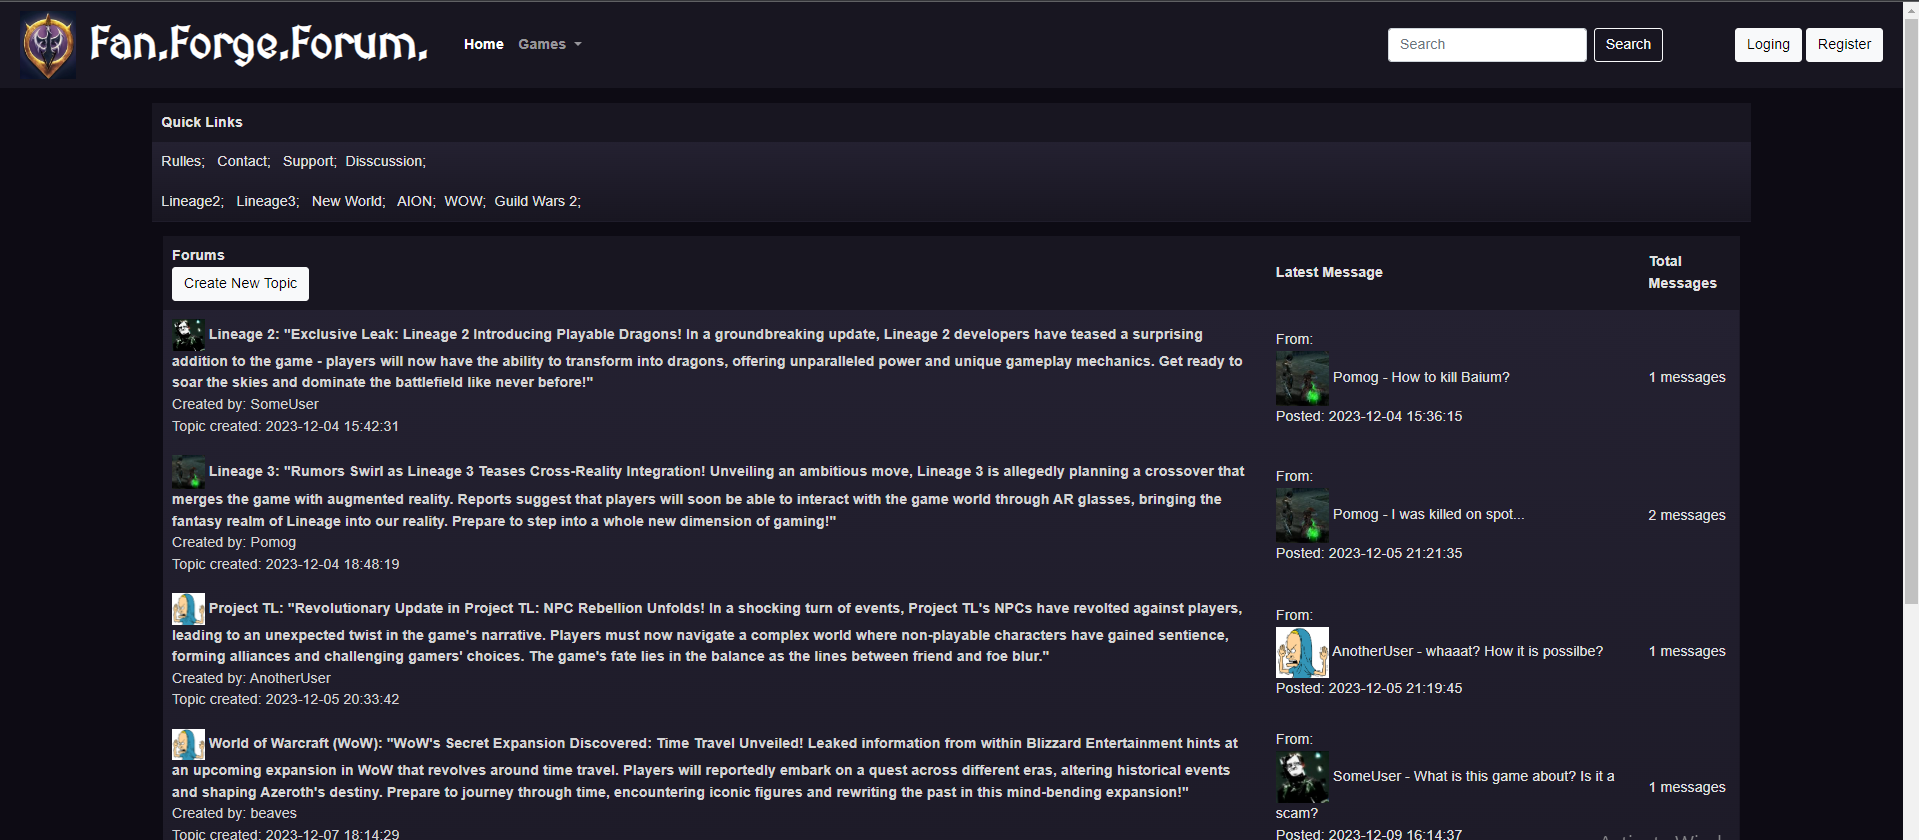
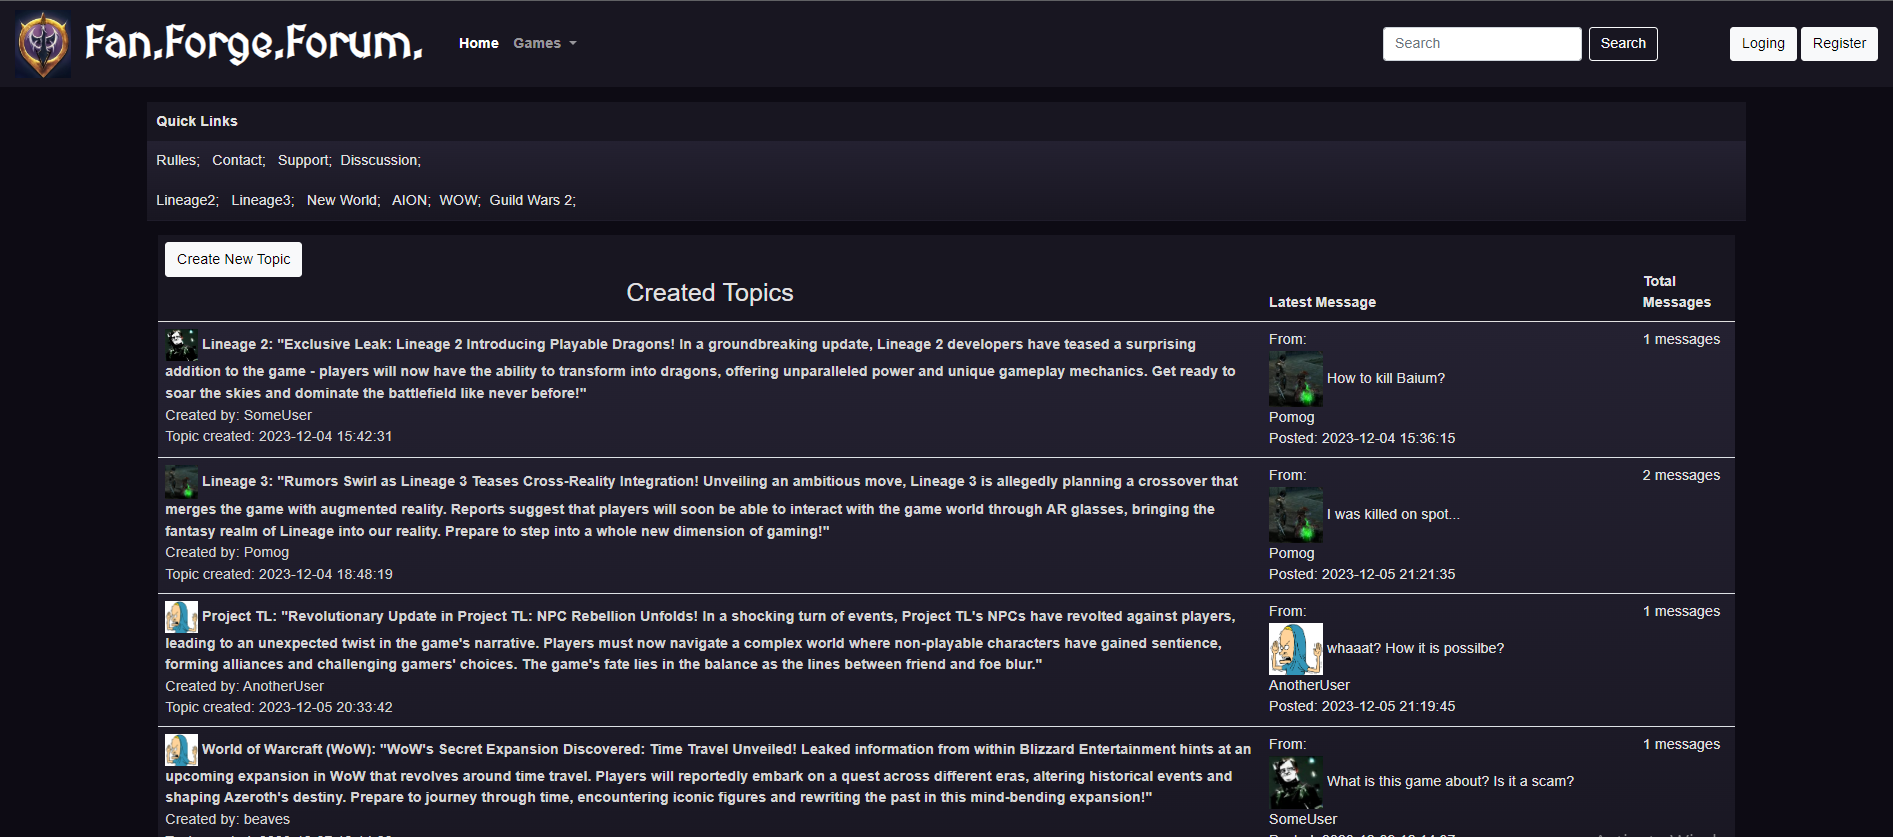
updating readme

diff --git a/template/home.page.html b/template/home.page.html
@@ -1,124 +1,55 @@
 {{template "body" .}}
+
 {{define "centralPart"}}
 <div class="container custom-container">
+    <table class="table forumTable whiteLink mt-3">
+        <thead class="containerHead">
+            <tr>
+                <!-- modal starts -->
+                <th class="forumFirstCol" scope="col">
+                    <div class="d-flex justify-content-start align-items-center">
+                        <button type="button" class="btn btn-light me-2" data-bs-toggle="modal" data-bs-target="#createNewTopicModal">Create New Topic</button>
+                    </div>
+                    <div class="d-flex justify-content-center">
+                        <h3>Created Topics</h3>
+                    </div>
+                </th>
+                <!-- modal ends -->
+                <th scope="col">Latest Message</th>
+                <th scope="col">Total Messages</th>
+            </tr>
+        </thead>
+        <tbody class="containerBody">
+            {{$threadinfo := index .Data "threads"}}
+            {{ range $threadinfo }}
+            <tr>
+                <td>
+                    <!-- 1column -->
+                    <a href="/theme">
+                        <img src="{{ .PictureUserWhoCreatedThread }}" class="logo_img" alt="/static/logo/message_icon2.png"><strong>&nbsp;{{ .Subject }} </strong>
+                        <br>Created by: {{ .UserNameWhoCreatedThread}}<br>
+                        Topic created: {{ .Created}}
+                    </a>
+                </td>
+                {{ $lastPost := findLastPost .Posts }}
+                {{ $dateLastPostCreated := convertTime $lastPost }}
+                <td><!-- 2column -->From:<br><img src="{{ .PictureUserWhoCreatedLastPost }}" class="logo_ava" alt="picture"> {{ $lastPost.Subject}} <br>{{ .UserNameWhoCreatedLastPost }}<br> Posted: {{$dateLastPostCreated}} </td>
+                {{ $numOfPosts := numberOfPosts .Posts }}
+                <td><!-- 3column -->{{ $numOfPosts}} messages</td>
+            </tr>
+            {{ end }}
 
-    <table class="table  forumTable whiteLink mt-3">
-      <thead class="containerHead">
-        <tr >
-          <!-- modal starts -->
-          <th class="forumFirstCol" scope="col">
-            <div class="d-flex justify-content-start align-items-center">
-              <button type="button" class="btn btn-light me-2" data-bs-toggle="modal" data-bs-target="#createNewTopicModal">Create New Topic</button>
-            </div>
-            <div class="d-flex justify-content-center">
-              <h3>Created Topics</h3>
-            </div>
-          </th>
-            <div class="modal fade text-bg-dark p-3" id="createNewTopicModal" tabindex="-1" aria-labelledby="createNewTopicModalLabel" aria-hidden="true">
-              <div class="modal-dialog">
-                <div class="modal-content">
-                  <div class="modal-header">
-                    <h1 class="modal-title fs-5" id="createNewTopicModalLabel">What this topic will be about?</h1>
-                    <button type="button" class="btn-close" data-bs-dismiss="modal" aria-label="Close"></button>
-                  </div>
-                  <div class="modal-body">
-                    <form method="post" action="/home">
-                      <div class="mb-3">
-                        <label for="message-text" class="col-form-label">Type your topic here:</label>
-                        <textarea class="form-control" id="message-text" name="message-text"></textarea>
-                      </div>
-                      <div class="modal-footer">
-                        <button type="button" class="btn btn-secondary" data-bs-dismiss="modal">Close</button>
-                        <button type="submit" class="btn btn-light">Publish new topic</button>
-                      </div>
-                    </form>
-                  </div>
-                </div>
-              </div>
-            </div>
-          <!-- modal ends -->
-          <th scope="col">Latest Message</th>
-          <th scope="col">Total Messages</th>
-        </tr>
-      </thead>
-      <tbody class="containerBody">
-        {{$threadinfo := index .Data "threads"}}
-        {{ range $threadinfo }}
-        <tr>
-            <td>
-              <!-- 1column -->
-                <a href="/theme">
+            <tr>
+                <td>
+                    <img src="/static/logo/message_icon2.png" class="logo_img" alt="logo"><strong> &nbsp;WoW Classic: </strong>New Lost and Found NPC in Booty Bay - WoW Classic. In the latest update to WoW Classic, Patch 1.15.0, Blizzard has added a new NPC to Booty Bay named "Rix Xizzix" who is a Lost and Found Vendor.
+                </td>
+                <td>From: SomeOneElse - Another Comment here<br> Posted: 21-2-2023</td>
+                <td>1 message</td>
+            </tr>
 
-                  <img src="{{ .PictureUserWhoCreatedThread}}" class="logo_img" alt="/static/logo/message_icon2.png"><strong>&nbsp;{{ .Subject }} </strong>
-                  <br>Created by: {{ .UserNameWhoCreatedThread}}<br>
-                  Topic created: {{ .Created}}
-                </a>
-              </td>
-              
-            {{ $lastPost := findLastPost .Posts}}
-            {{ $dateLastPostCreated := convertTime $lastPost}}
-          <td><!-- 2column -->From:<br><img src="{{ .PictureUserWhoCreatedLastPost}}" class="logo_ava" alt="picture"> {{ .UserNameWhoCreatedLastPost }} - {{ $lastPost.Subject}} <br> Posted: {{$dateLastPostCreated}} </td>
-          {{ $numOfPosts := numberOfPosts .Posts}}
-          <td><!-- 3column -->{{ $numOfPosts}} messages</td>
-        </tr>
-        {{end}}
+            <!-- Other rows with similar content -->
 
-        <tr>
-          <td> 
-
-            <img src="/static/logo/message_icon2.png" class="logo_img" alt="logo"><strong> &nbsp;WoW Classic: </strong>New Lost and Found NPC in Booty Bay - WoW Classic. In the latest update to WoW Classic, Patch 1.15.0, Blizzard has added a new NPC to Booty Bay named "Rix Xizzix" who is a Lost and Found Vendor.
-
-          </td>
-          <td>From: SomeOneElse - Another Comment here<br> Posted: 21-2-2023</td>
-          <td>1 message</td>
-        </tr>
-        <tr>
-          <td>
-
-            <img src="/static/logo/message_icon2.png" class="logo_img" alt="logo"><strong> &nbsp; Project TL: </strong>Project TL (Lineage 3 or Lineage Eternal) release date is a matter of speculation for nearly a decade. It was initially announced in 2011, but after delays and complications, the third installment in the Lineage series has not yet seen the light of day, nor do we have any vague release date set.
-
-          </td>
-          <td>From: Pomogadryg - I will play this game...<br> Posted: 10-11-2022</td>
-          <td>5 messages</td>
-        </tr>
-        <tr>
-          <td>
-
-            <img src="/static/logo/message_icon2.png" class="logo_img" alt="logo"><strong> &nbsp; Upcoming MMO: </strong>A new MMO titled "Legends of Eternia" has been teased by a renowned game studio. Little is known about the gameplay or setting, but rumors suggest it will revolutionize the genre.
-
-          </td>
-          <td>From: Adventurer88 - Excited for this one!<br> Posted: 22-12-2022</td>
-          <td>8 messages</td>
-        </tr>
-        <tr>
-          <td>
-
-            <img src="/static/logo/message_icon2.png" class="logo_img" alt="logo"><strong> &nbsp; Fantasy RPG News: </strong>An unconfirmed leak reveals details about an upcoming fantasy RPG. Speculations about its vast open world and intricate storyline have sparked interest among gaming enthusiasts.
-
-          </td>
-          <td>From: QuestMaster21 - Can't wait to explore!<br> Posted: 21-11-2023</td>
-          <td>12 messages</td>
-        </tr>
-        <tr>
-          <td>
-
-            <img src="/static/logo/message_icon2.png" class="logo_img" alt="logo"><strong> &nbsp; Sci-Fi MMO Announcement: </strong>A renowned game studio has officially announced the development of a new sci-fi MMO. The teaser trailer hints at futuristic worlds and advanced gameplay mechanics.
-
-          </td>
-          <td>From: SpaceExplorerX - Ready to embark on this journey!<br> Posted: 02-12-2023</td>
-          <td>6 messages</td>
-        </tr>
-        <tr>
-          <td>
-
-            <img src="/static/logo/message_icon2.png" class="logo_img" alt="logo"><strong> &nbsp; MMORPG Update: </strong>An existing MMORPG is set to receive a major update, promising new quests, improved graphics, and enhanced gameplay mechanics.
-
-          </td>
-          <td>From: GamerGirl123 - Exciting times ahead!<br> Posted: 10-11-2022</td>
-          <td>10 messages</td>
-        </tr>
-
-      </tbody>
+        </tbody>
     </table>
-  </div>
+</div>
 {{end}}

diff --git a/template/theme.page.html b/template/theme.page.html
@@ -90,17 +90,27 @@
  
   <table class="table-borderless forumTable whiteLink mt-3">
     <thead class="containerHead">
-      {{$postinfo := index .Data "posts"}}
-
-      <tr >
-{{/* info related to the main(mother)Thread */}}
+      <tr>
+        {{/* Info related to the main (mother) Thread */}}
         <th class="forumFirstColTheme" scope="col" colspan="2">
-        {{index .Data "mainThreadName"}} <br>
-        Created: {{index .Data "mainThreadCreatedTime"}}
+          {{$creatorImage := index .Data "creatorImg"}}
+          {{$creatorName := index .Data "creatorName"}}
+          <img src="{{$creatorImage}}" class="ava_img" alt="ava"><br>
+          <strong>&nbsp;{{$creatorName}}</strong><br>
+          Date of Registration: ...... <br>
+          Total Messages: ....
         </th>
+  
+        <th>
+          <div id="mainTheme">
+            <h3>Topic:</h3>
+            <hr>
+            {{index .Data "mainThreadName"}} <br>
+            <hr>
+            Created: {{index .Data "mainThreadCreatedTime"}}
+          </div>
 
-        <th></th>
-
+        </th>
       </tr>
     </thead>
     <tbody class="containerBody">
@@ -108,22 +118,23 @@
       {{ range $postinfo }}
       <tr>
         <td>
-          <img src="{{ .PictureUserWhoCreatedThread}}" class="logo_img" alt="/static/logo/message_icon2.png"><strong>&nbsp;{{ .Subject }} </strong>
-
-          <img src="{{ .PictureUserWhoCreatedPost}}" class="ava_img" alt="ava"><strong> &nbsp; {{ .UserNameWhoCreatedPost}} </strong><br>Date of Registration: ...... <br> Total Messages: ....
+          <img src="{{ .PictureUserWhoCreatedPost }}" class="ava_img" alt="ava">
+          <br><strong>&nbsp;{{ .UserNameWhoCreatedPost }}</strong><br>
+          Date of Registration: ...... <br>
+          Total Messages: ....
         </td>
-        <td> 
+        <td>
         </td>
-        <td> <em>...</em> 
-          <br>
-          <br>{{ .Content}}
-          <br> Posted: {{ .Created}}
-          <br>Like 0 👍&nbsp; &nbsp; Dislike 0 👎
-        
+        <td>
+          <em>...</em> <br><br>
+          {{ .Content }}<br>
+          Posted: {{ .Created }}<br>
+          Like 0 👍 &nbsp; &nbsp; Dislike 0 👎
         </td>
       </tr>
-      {{end}}
+      {{ end }}
     </tbody>
   </table>
+  
 </div>
 {{end}}

diff --git a/internal/handler/handlers.go b/internal/handler/handlers.go
@@ -288,11 +288,6 @@ func (m *Repository) ThemeHandler(w http.ResponseWriter, r *http.Request) {
 
 		var postsInfo []models.PostDataForThemePage
 
-		mainThread, err := m.DB.GetThreadByID(getThreadIDFromCookies(r))
-		if err != nil {
-			setErrorAndRedirect(w, r, "Could not get thread by id", "/error-page")
-		}
-
 		for _, post := range posts {
 			var user models.User
 			user, err = m.DB.GetUserByID(post.UserID)
@@ -312,8 +307,20 @@ func (m *Repository) ThemeHandler(w http.ResponseWriter, r *http.Request) {
 
 		data["posts"] = postsInfo
 
-		data["creatorName"],_ = m.DB.GetUserByID(mainThread.UserID)
+		mainThread, err := m.DB.GetThreadByID(getThreadIDFromCookies(r))
+		if err != nil {
+			setErrorAndRedirect(w, r, "Could not get thread by id", "/error-page")
+		}
 
+		creator, err := m.DB.GetUserByID(mainThread.UserID)
+		if err != nil {
+			setErrorAndRedirect(w, r, "Could not get user as creator", "/error-page")
+		}
+
+		data["creatorName"] = creator.UserName
+		data["creatorImg"] = creator.Picture
+		data["mainThreadName"] = mainThread.Subject
+		data["mainThreadCreatedTime"] = mainThread.Created.Format("2006-01-02 15:04:05")
 		renderer.RendererTemplate(w, "theme.page.html", &models.TemplateData{
 			Data: data,
 		})

diff --git a/README.md b/README.md
@@ -1,6 +1,7 @@
 # FFForum
 Online forum for MMORPG fans and friends!
 ![Forum Home Page](static/readme_images/image.png)
+![Alt text](image.png)
 
 ## Project Overview
 
